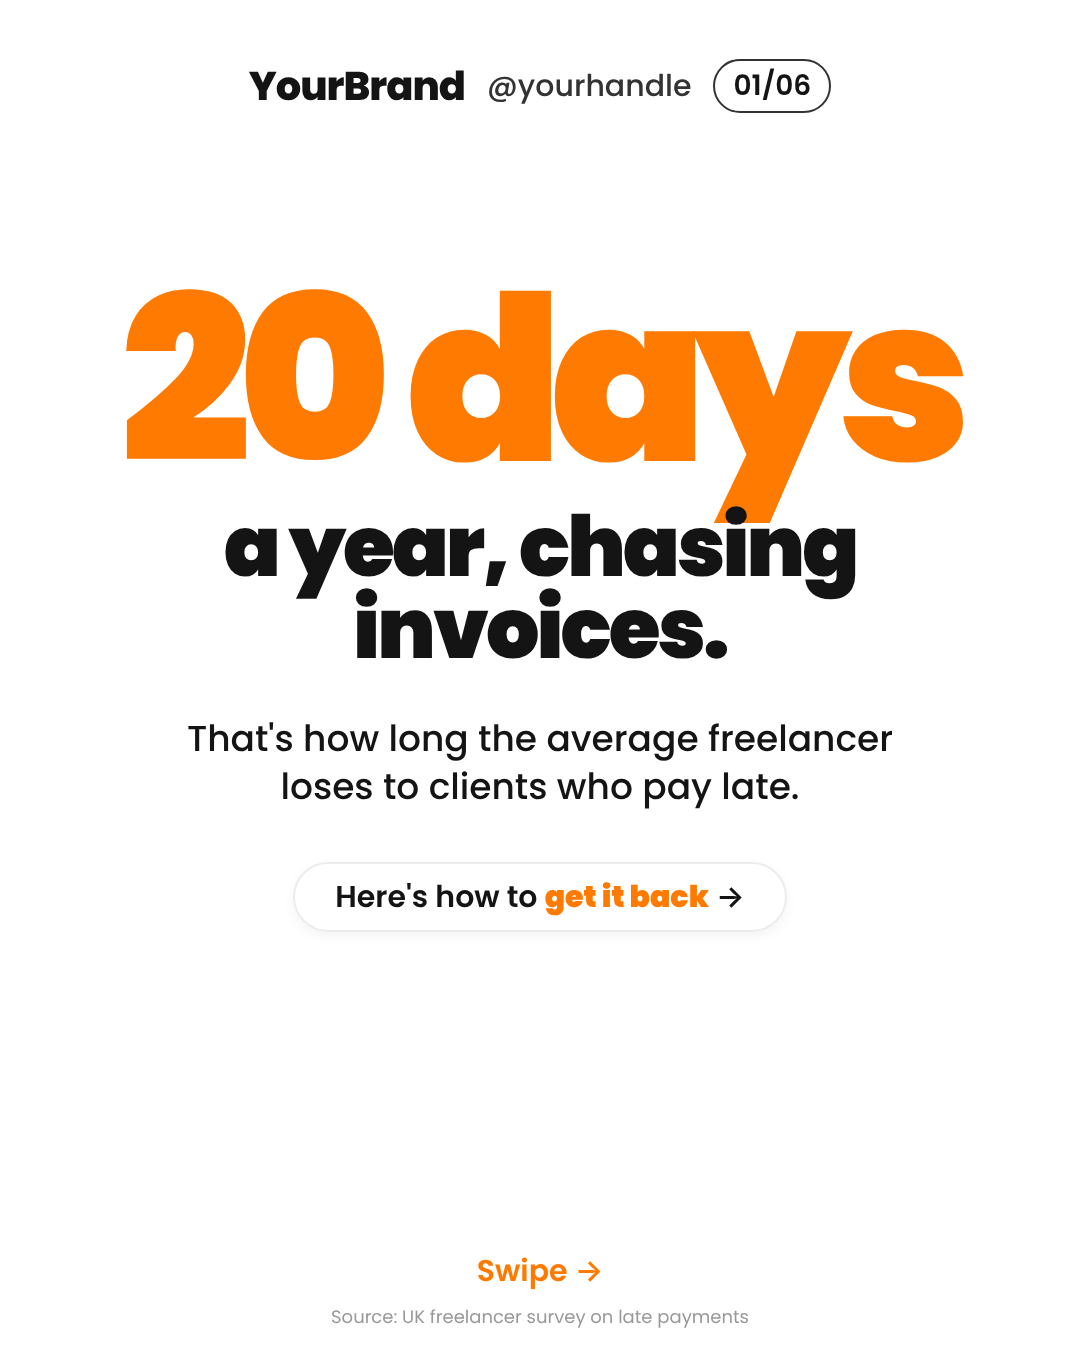
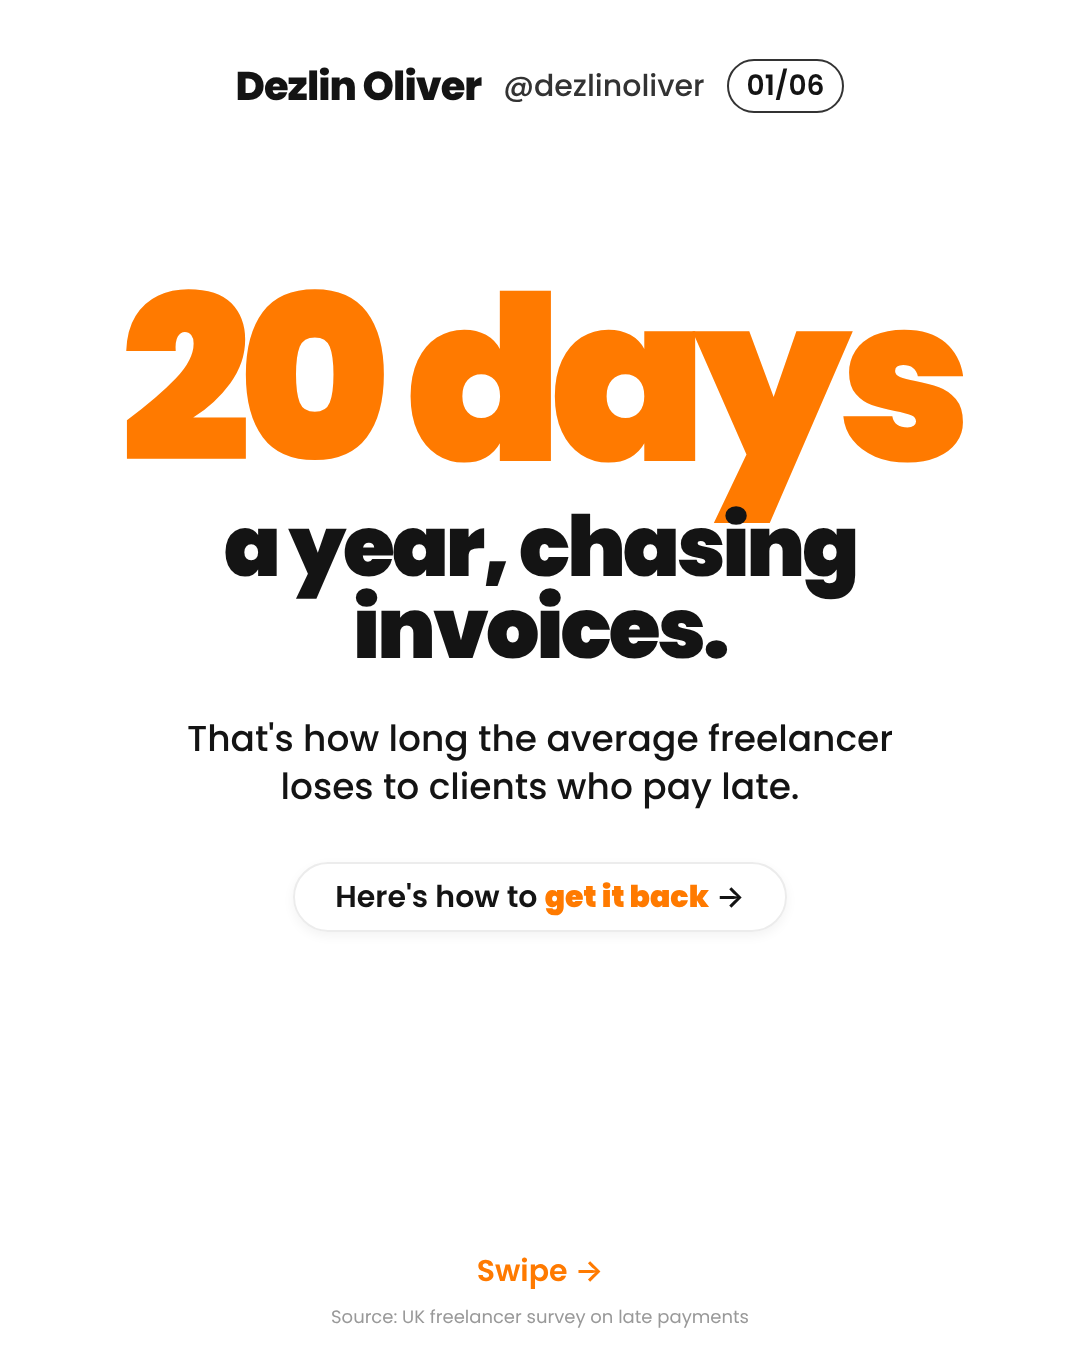
Brand Instagram slides with Dezlin Oliver / @dezlinoliver
Claude-Session: https://claude.ai/code/session_01EztSngQegVsHouwmV9RTgz

Changed region(s): [[0.2139, 0.0311, 0.6417, 0.0933], [0.6722, 0.0311, 0.7944, 0.0933]]

diff --git a/paid-on-time/build/visuals.html b/paid-on-time/build/visuals.html
@@ -60,7 +60,7 @@ h1.ink{color:var(--ink)} h1 .o{color:var(--o)}
 
 <!-- 1 HOOK -->
 <div class="slide s">
-  <div class="top"><div class="brand">YourBrand</div><div class="handle">@yourhandle</div><div class="page">01/06</div></div>
+  <div class="top"><div class="brand">Dezlin Oliver</div><div class="handle">@dezlinoliver</div><div class="page">01/06</div></div>
   <div class="big">20 days</div>
   <h1 class="ink" style="font-size:84px;letter-spacing:-3px;margin-top:10px">a year, chasing<br>invoices.</h1>
   <div class="tag" style="margin-top:44px">That's how long the average freelancer<br>loses to clients who pay late.</div>
@@ -70,7 +70,7 @@ h1.ink{color:var(--ink)} h1 .o{color:var(--o)}
 
 <!-- 2 WHY -->
 <div class="slide s">
-  <div class="top"><div class="brand">YourBrand</div><div class="handle">@yourhandle</div><div class="page">02/06</div></div>
+  <div class="top"><div class="brand">Dezlin Oliver</div><div class="handle">@dezlinoliver</div><div class="page">02/06</div></div>
   <h1>It's not the<br>client.</h1>
   <div class="tag">It's the process. Most late payments come from:</div>
   <div class="steps">
@@ -88,7 +88,7 @@ h1.ink{color:var(--ink)} h1 .o{color:var(--o)}
 
 <!-- 3 RULES -->
 <div class="slide s">
-  <div class="top"><div class="brand">YourBrand</div><div class="handle">@yourhandle</div><div class="page">03/06</div></div>
+  <div class="top"><div class="brand">Dezlin Oliver</div><div class="handle">@dezlinoliver</div><div class="page">03/06</div></div>
   <h1>The 3 Rules.</h1>
   <div class="tag">Simple. Boring. They work.</div>
   <div class="steps">
@@ -106,7 +106,7 @@ h1.ink{color:var(--ink)} h1 .o{color:var(--o)}
 
 <!-- 4 LADDER -->
 <div class="slide s">
-  <div class="top"><div class="brand">YourBrand</div><div class="handle">@yourhandle</div><div class="page">04/06</div></div>
+  <div class="top"><div class="brand">Dezlin Oliver</div><div class="handle">@dezlinoliver</div><div class="page">04/06</div></div>
   <h1 style="font-size:104px">The Reminder<br>Ladder.</h1>
   <div class="tag" style="font-size:32px">Each step a little firmer than the last.</div>
   <div class="lad">
@@ -122,7 +122,7 @@ h1.ink{color:var(--ink)} h1 .o{color:var(--o)}
 
 <!-- 5 PRODUCT -->
 <div class="slide s">
-  <div class="top"><div class="brand">YourBrand</div><div class="handle">@yourhandle</div><div class="page">05/06</div></div>
+  <div class="top"><div class="brand">Dezlin Oliver</div><div class="handle">@dezlinoliver</div><div class="page">05/06</div></div>
   <h1 style="font-size:100px">I built it<br>for you.</h1>
   <div class="tag" style="font-size:32px"><b style="color:var(--o)">Paid On Time</b> tells you who to chase today<br>and writes the message for you.</div>
   <div class="shot"><div class="chrome"><i></i><i></i><i></i></div><img src="../sell/img/app-screenshot.png"></div>
@@ -131,7 +131,7 @@ h1.ink{color:var(--ink)} h1 .o{color:var(--o)}
 
 <!-- 6 CTA -->
 <div class="slide s">
-  <div class="top"><div class="brand">YourBrand</div><div class="handle">@yourhandle</div><div class="page">06/06</div></div>
+  <div class="top"><div class="brand">Dezlin Oliver</div><div class="handle">@dezlinoliver</div><div class="page">06/06</div></div>
   <h1 style="font-size:104px">Get the kit.</h1>
   <div class="list">
     <div class="li"><div class="ck"><svg viewBox="0 0 24 24"><path d="M5 12l5 5 9-10"/></svg></div><div>The Paid On Time app<small>Works offline. No account, no subscription.</small></div></div>

diff --git a/instagram-post/business-model.html b/instagram-post/business-model.html
@@ -36,9 +36,9 @@
   <div class="top">
     <div class="brand">
       <svg width="44" height="40" viewBox="0 0 44 40"><path d="M4 26 L22 8 L40 8 L22 26 Z" fill="#7BC043"/><path d="M4 34 L14 24 L30 24 L20 34 Z" fill="#3FA34D"/></svg>
-      YourBrand
+      Dezlin Oliver
     </div>
-    <div class="handle">@yourhandle</div>
+    <div class="handle">@dezlinoliver</div>
     <div class="page">02/06</div>
   </div>
 

diff --git a/paid-on-time/README.md b/paid-on-time/README.md
@@ -10,7 +10,7 @@ The four steps from the "Business Model" card, done for one product:
 | **04 Repeat forever** | [`repeat/`](repeat/): the weekly loop, scorecard and feedback log, the improvement backlog, and the next 3 problems |
 
 ## What you need to do (Claude can't do these for you)
-1. Replace **YourBrand / @yourhandle** on the carousel (`build/visuals.html`).
+1. The carousel is branded **Dezlin Oliver · @dezlinoliver** (edit `build/visuals.html` to change it).
 2. Create the Gumroad/Payhip product with `sell/gumroad-listing.md` and connect payouts.
 3. Post the carousel and answer the DMs using `sell/instagram-launch.md`.
 4. Every Sunday, fill in `repeat/weekly-scorecard.csv` and follow `repeat/playbook.md`.

diff --git a/paid-on-time/sell/instagram-launch.md b/paid-on-time/sell/instagram-launch.md
@@ -1,7 +1,7 @@
 # Step 3 — Sell: Instagram launch
 
-The carousel is in `sell/img/carousel-1.png` … `carousel-6.png` (1080×1350). Replace
-**YourBrand / @yourhandle** before posting: edit `build/visuals.html` and re-render (see
+The carousel is in `sell/img/carousel-1.png` … `carousel-6.png` (1080×1350), branded
+**Dezlin Oliver · @dezlinoliver**. To change it, edit `build/visuals.html` and re-render (see
 `README.md`), or just ask Claude.
 
 ## Launch post caption
